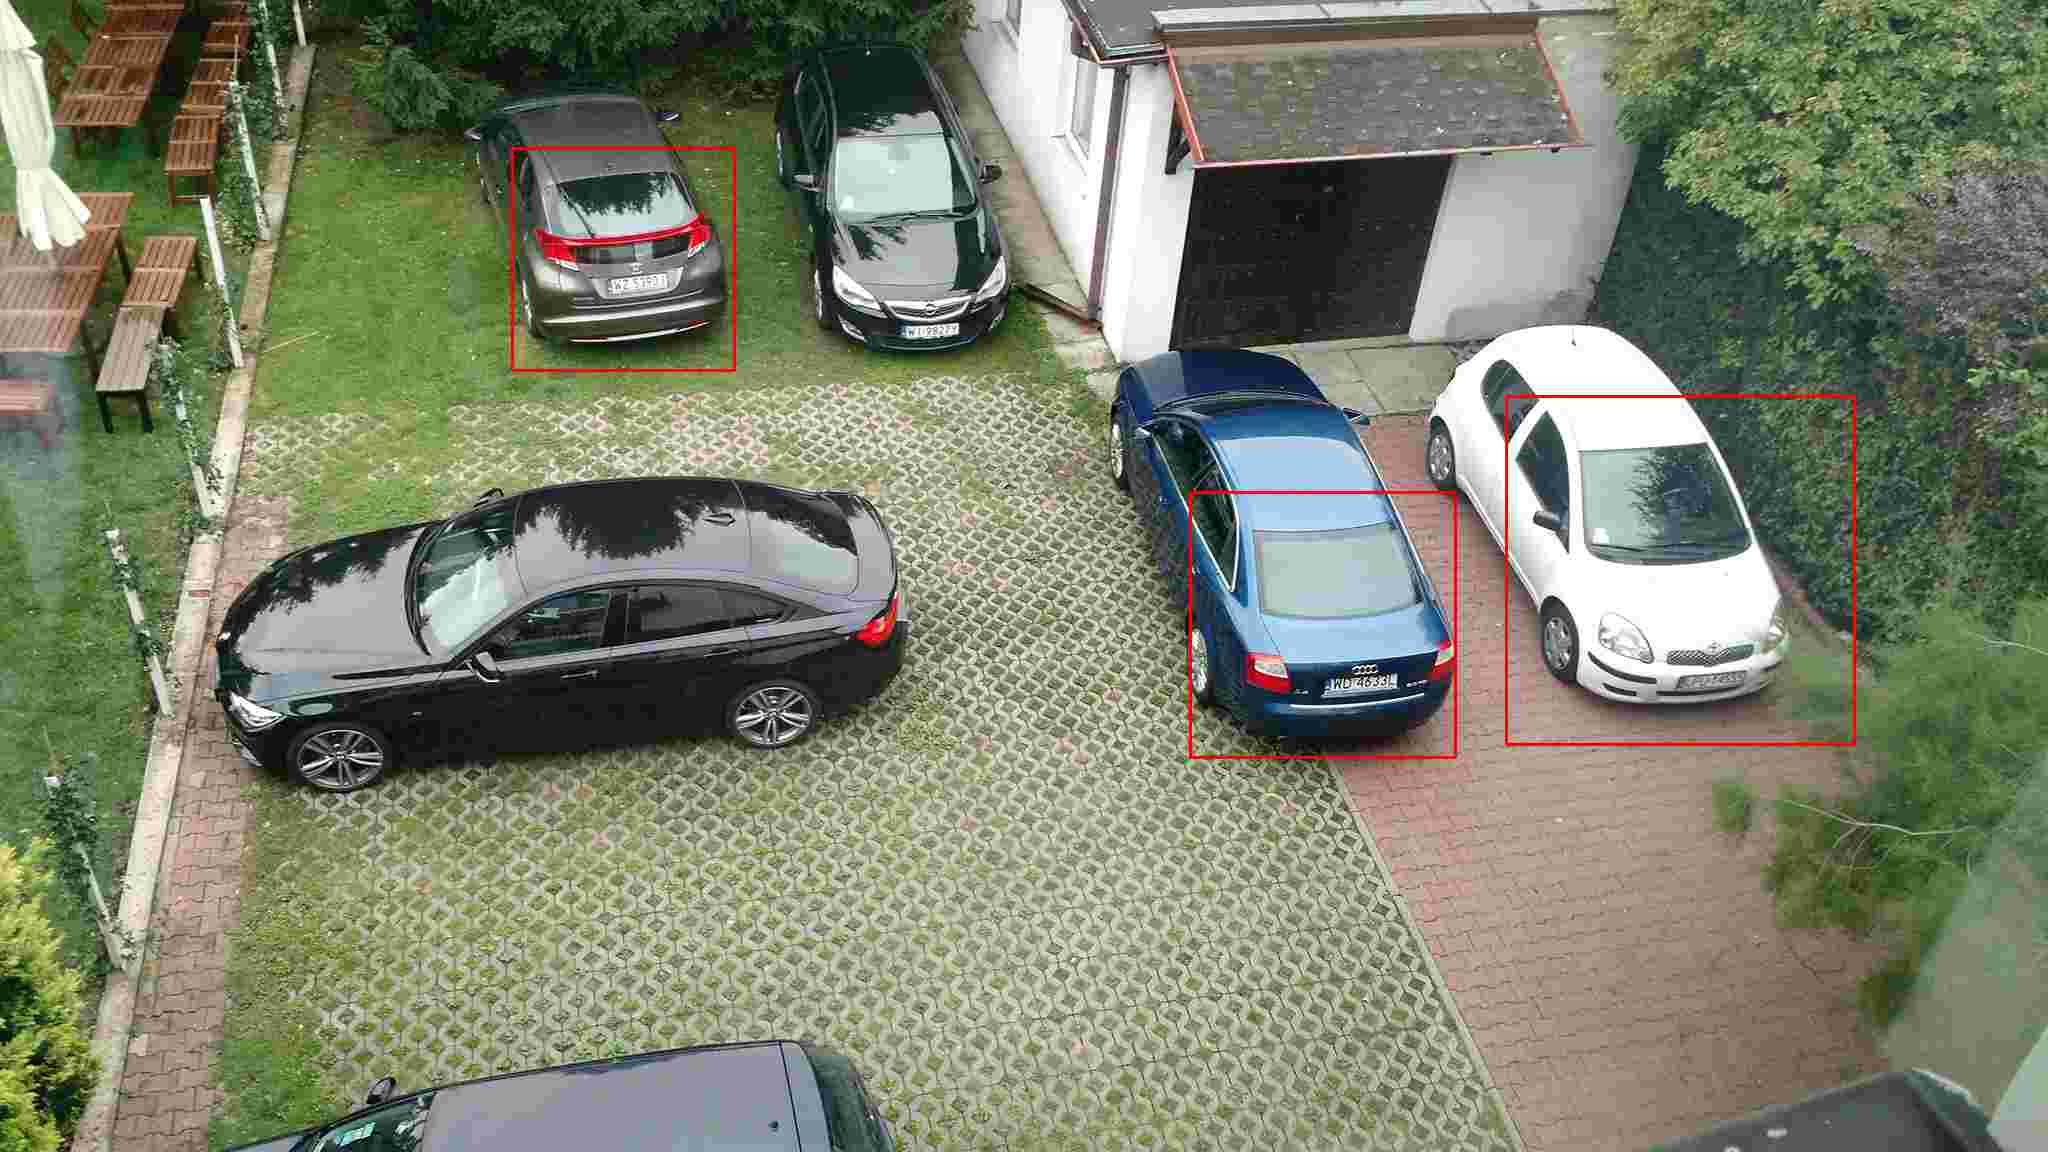
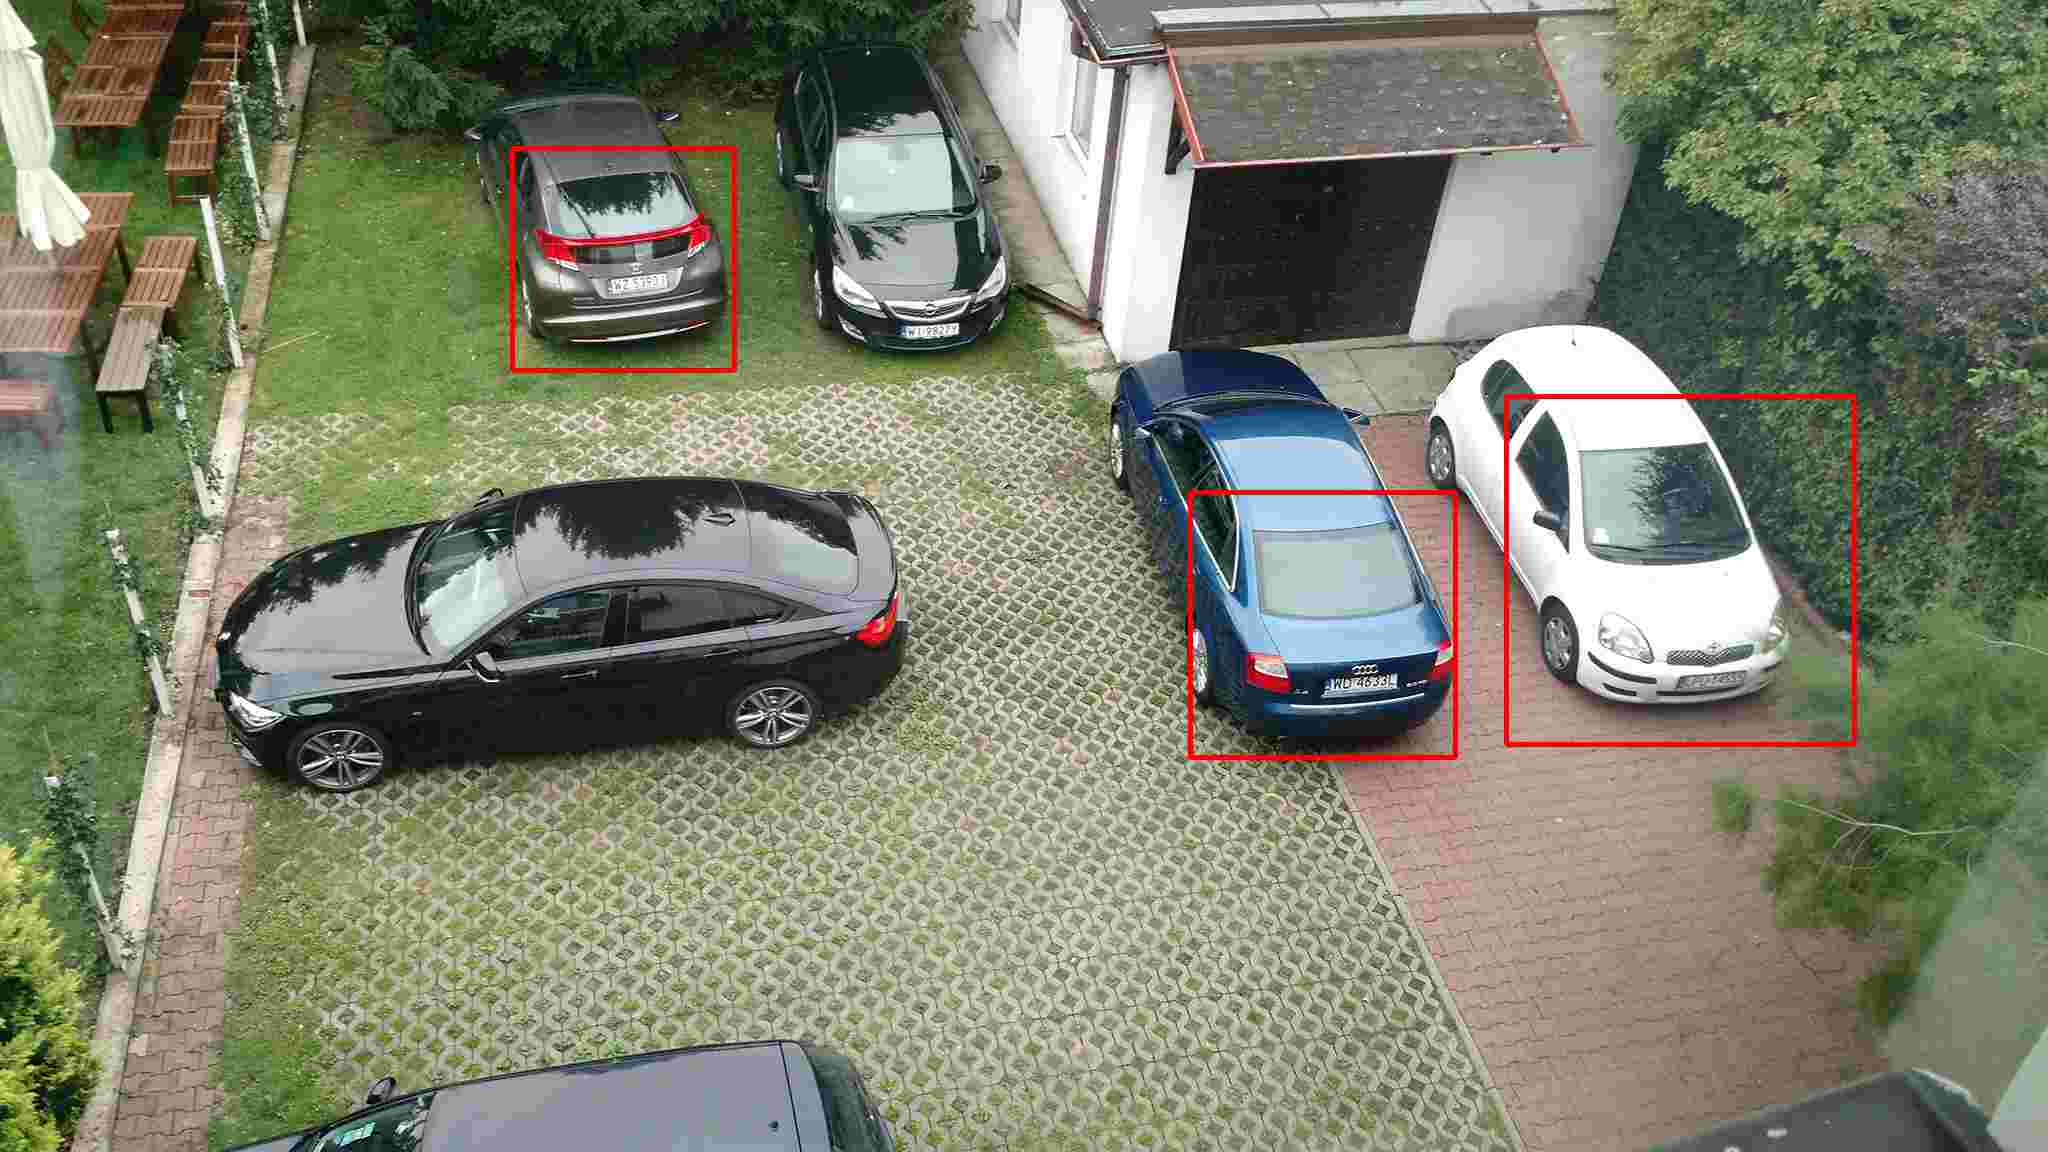
if/el toggler of clasifier

Changed region(s): [[0.5625, 0.3125, 0.9062, 0.6875], [0.2188, 0.125, 0.375, 0.3438], [0.875, 0.4375, 0.9375, 0.5938]]

diff --git a/camera_local_img2.py b/camera_local_img2.py
@@ -2,7 +2,14 @@
 import cv2
 import numpy as np
 
-cascade_src = './cas1.xml'
+clasificators = ['cars', 'cas1']
+clasificator = clasificators[1]
+
+if clasificator is 'cars':
+    cascade_src = './cars.xml'
+elif clasificator is 'cas1':
+    cascade_src = './cas1.xml'
+
 car_cascade = cv2.CascadeClassifier(cascade_src)
 
 # grab the raw NumPy array representing the image,
@@ -16,14 +23,22 @@ if image is None:
     exit(-1)
 
 gray = cv2.cvtColor(image, cv2.COLOR_BGR2GRAY)
-cars = car_cascade.detectMultiScale(gray,
-                                    scaleFactor=1.2,
-                                    minNeighbors=3,
-                                    minSize=(150, 150),
-                                    flags=cv2.cv.CV_HAAR_SCALE_IMAGE)
+
+if clasificator is 'cars':
+    cars = car_cascade.detectMultiScale(gray,
+                                        scaleFactor=1.1,
+                                        minNeighbors=1,
+                                        minSize=(150, 150))
+
+elif clasificator is 'cas1':
+    cars = car_cascade.detectMultiScale(gray,
+                                        scaleFactor=1.2,
+                                        minNeighbors=3,
+                                        minSize=(150, 150),
+                                        flags=cv2.cv.CV_HAAR_SCALE_IMAGE)
 
 for (x, y, w, h) in cars:
-    cv2.rectangle(image, (x, y), (x+w, y+h), (0, 0, 255), 2)
+    cv2.rectangle(image, (x, y), (x+w, y+h), (0, 0, 255), 4)
 
 cv2.imshow("Frame", image)
 
